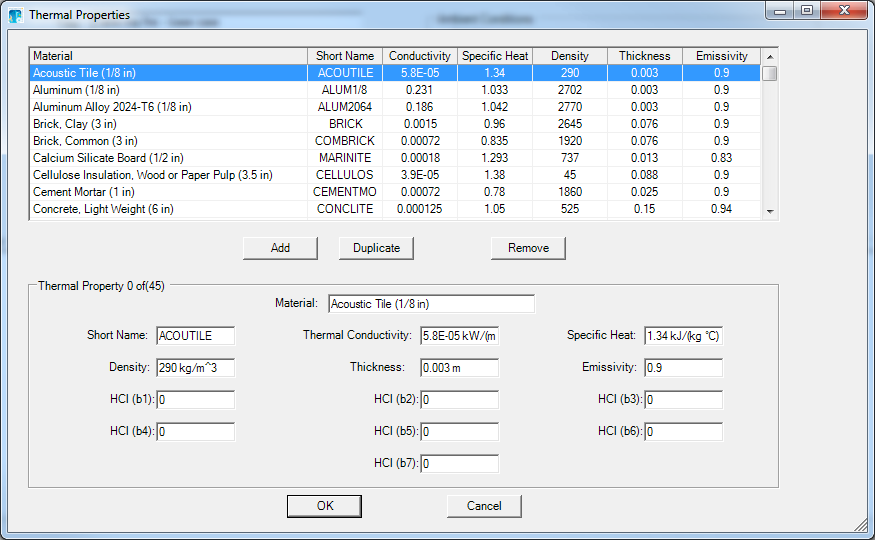
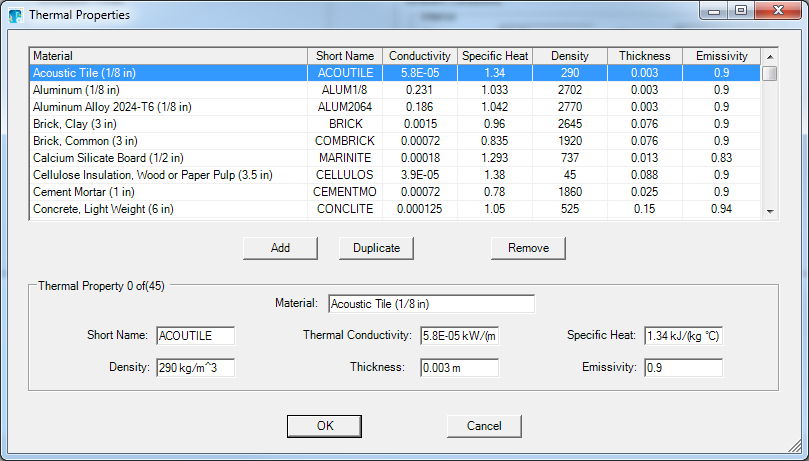
CFAST User's Guide: Updating User's Guide for version 7

diff --git a/Docs/Users_Guide/Input_File_Chapter.tex b/Docs/Users_Guide/Input_File_Chapter.tex
@@ -20,7 +20,7 @@ MATL,GLASSFB3,0.036,795,105,0.013,0.9,"Glass Fiber, Organic Bonded (1/2 in)"
 !!
 !!Compartment keywords
 !!
-COMPA,Compartment 1,9.1,5,4.6,0,0,0,GLASSFB3,CONCRETE,CONCRETE,50,50,50
+COMPA,Comp 1,9.1,5,4.6,0,0,0,GLASSFB3,CONCRETE,CONCRETE,50,50,50
 !!
 !!Vent keywords
 !!
@@ -110,17 +110,17 @@ The Simulation Environment page defines the initial conditions and simulation ti
 
 \subsection{Naming the Calculation, the Title Input}
 
-The first thing to do when setting up an input file is to give the simulation a title.  The first line in the CFAST input data file must be the CFAST version identification along with an optional short title for the simulation.  This is a required input.  The title command is the line that CFAST keys on to determine whether it has a correct data file.
+The first thing to do when setting up an input file is to give the simulation a title.  The first line in the CFAST input data file must be the CFAST version identification along with an optional short title for the simulation.  This is a required input.  The VERSN command is the line that CFAST keys on to determine whether it has a correct data file.
 
 \begin{lstlisting}
-VERSN,6,CFAST Simulation
+VERSN,7,CFAST Simulation
 \end{lstlisting}
 
 \clearpage
 
 \begin{figure}[h!]
 \begin{center}
-\includegraphics[width=3.458in]{FIGURES/Input_File/Title}
+\includegraphics[width=5.3in]{FIGURES/Input_File/Title}
 \end{center}
 \end{figure}
 
@@ -140,28 +140,24 @@ TIMES,900,50,10,10
 \end{center}
 \end{figure}
 
-\begin{itemize}
-\item \textbf{Simulation Time} (default units: s, default value, 900 s): The length of time over which the simulation takes place.  This is a required input which should be entered even if all other fields are not included. The maximum value for this input is 86400 s (1 day).
 
-\item \textbf{Text Output Interval} (default units: s, default value, 50 s): The print interval is the time interval between each printing of the output values.  If omitted or less than or equal to zero, no output values will occur.
+\textbf{Simulation Time} (default units: s, default value, 900 s): The length of time over which the simulation takes place.  This is a required input which should be entered even if all other fields are not included. The maximum value for this input is 86400 s (1 day).
 
-\item \textbf{Spreadsheet Output Interval} (default units: s, default value, 10 s): CFAST can output a subset of the results of the model simulation in a comma-delimited alphanumeric format which can be read by most spreadsheet software. This is designed to be imported into a spreadsheet for further analysis or graphing of the results of the simulation.  This input defines the time interval between outputs of the model results in a spreadsheet-compatible format. A value greater than zero must be used if the spreadsheet file is to be used.
+\textbf{Text Output Interval} (default units: s, default value, 50 s): The print interval is the time interval between each printing of the output values.  If omitted or less than or equal to zero, no output values will occur.
 
-\item \textbf{Smokeview Output Interval} (default units: s, default value: 10 s): CFAST can output a subset of the results in a format compatible with the visualization program smokeview. This input defines the time interval between outputs of the model results in a smokeview-compatible format.  A value greater than zero must be used if the spreadsheet output is desired.
-\end{itemize}
+\textbf{Spreadsheet Output Interval} (default units: s, default value, 10 s): CFAST can output a subset of the results of the model simulation in a comma-delimited alphanumeric format which can be read by most spreadsheet software. This is designed to be imported into a spreadsheet for further analysis or graphing of the results of the simulation.  This input defines the time interval between outputs of the model results in a spreadsheet-compatible format. A value greater than zero must be used if the spreadsheet file is to be used.
 
-In addition to the input data file created specifically for a CFAST simulation, there are a number files that CFAST uses to define default values and other input information, and to output the results of the simulation for later analysis.  They include 1) a thermal properties file, 2) files of predefined fire objects, and 4) a spreadsheet-compatible output file.
-
-The thermal properties file contains material properties for compartment surfaces, target objects that may be placed in compartments in the simulation to monitor surface temperature and heat flux to the objects, and fire objects, in addition to the main fire in the simulation that may ignite based on their surface temperature or incident flux onto the surface of the object. The predefined fire objects files contain definitions for a number of reference fires from the literature or developed by the user that may be included in a simulation. The thermal properties and fire objects files may be modified by the user.  Details of the files are included in the appendices.  There are default files included in the CFAST distribution.
+\textbf{Smokeview Output Interval} (default units: s, default value: 10 s): CFAST can output a subset of the results in a format compatible with the visualization program smokeview. This input defines the time interval between outputs of the model results in a smokeview-compatible format.  A value greater than zero must be used if the spreadsheet output is desired.
+    
+\textbf{Maximum Time Step} (default units: s, default value: 2 s): CFAST will automatically adjust the time interval for the solution of the differential equation set up or down so that the simulation is as efficient as possible within the pre-defined error tolerances. This input places a maximum value for the equation solver and can normally be left at the default value. In cases (which are hopefully rare) where the model fails to converge on a solution, this value can be reduced which often will allow the simulation to successfully complete.
 
 \subsection{Ambient Conditions}
 
-Ambient conditions define the environment at which the scenario begins. This allows the user to specify the temperature, pressure, and station elevation of the ambient atmosphere, as well as the absolute wind pressure to which the structure is subjected.  Pressure interior to a structure is calculated simply as a lapse rate (related to the height above sea level) based on the NOAA/NASA tables \cite{GPO:Atmosphere}.  This modification is applied to the vents which connect to the exterior ambient.  The calculated pressure change is modified by the wind coefficient for each vent.  This coefficient, which can vary from -1.0 to +1.0, nominally from -0.8 to +0.8, determines whether the vent is facing away from or into the wind.  The pressure change is multiplied by the vent wind coefficient and added to the external ambient for each vent which is connected to the outside. There is an ambient for the interior and for the exterior of the structure.  Three keywords define the ambient conditions: TAMB for the interior of the structure, EAMB for the exterior of the structure is EAMB, and WIND for the wind information.
+Ambient conditions define the environment at which the scenario begins. This allows the user to specify the temperature, pressure, and a reference elevation, as well as an initial relative humidity.  Initial pressures in a structure are calculated simply as a lapse rate (related to the height above sea level) based on the NOAA/NASA tables \cite{GPO:Atmosphere}. The relative humidity is used to calculate the initial water content in the air both inside and outside of the structure.  There is an input for the interior and for the exterior of the structure.  Two keywords define the ambient conditions: TAMB for the interior of the structure and EAMB for the exterior of the structure is EAMB.
 
 \begin{lstlisting}
 EAMB,293.15,101300,0
 TAMB,293.15,101300,0,50
-WIND,0,10,0.16
 \end{lstlisting}
 
 \begin{figure}[h!]
@@ -170,39 +166,30 @@ WIND,0,10,0.16
 \end{center}
 \end{figure}
 
-\textbf{Ambient Temperature} (default units: \degc~C, default value: 20 \degc~C): Initial ambient temperature inside (for TAMB) or outside (For EAMB) the structure at the station elevation.
+\textbf{Temperature} (default units: \degc~C, default value: 20 \degc~C): Initial ambient temperature inside (for TAMB) or outside (For EAMB) the structure at the station elevation.
 
-\textbf{Ambient Pressure} (default units: Pa, default value: 101300 Pa): Initial values for ambient atmospheric pressure inside (for TAMB) and outside (for EAMB) the structure at the station elevation. Default value is standard atmospheric pressure at sea level (0 m elevation) of 101.3 kPa. Input units are in Pa. These values define standard conditions as defined in Standard Atmosphere as noted in the Handbook of Chemistry and Physics  . There is a set of numerical approximations in the CFAST code which duplicate the pressure/temperature/altitude relationships in the handbook.
+\textbf{Pressure} (default units: Pa, default value: 101300 Pa): Initial values for ambient atmospheric pressure inside (for TAMB) and outside (for EAMB) the structure at the station elevation. Default value is standard atmospheric pressure at sea level (0 m elevation) of 101.3 kPa. Input units are in Pa.
 
 \textbf{Elevation} (defaults units: m, default value: 0 m): The height where the ambient pressure and temperature were specified.  This is the reference datum for calculating the density of the atmosphere as well as the temperature and pressure inside and outside of the structure as a function of height.
 
-\textbf{Relative Humidity} (default units \% RH, default value: 50 \%): The initial relative humidity in the system, only specified for the interior with the TAMB command.  This is converted to kilograms of water per cubic meter.
+\textbf{Humidity} (default units \% RH, default value: 50 \%): The initial relative humidity in the system, only specified for the interior with the TAMB command.  This is converted to kilograms of water per cubic meter as an initial condition for both the interior and exterior of the structure.
 
-The wind speed, scale height, and power law are used to calculate the wind coefficient for each vent connected to the outside.  The wind velocity is specified at some reference height.  The power law then provides a lapse rate for the wind speed.  An assumption is that the wind speed is zero at the surface.  The formula used to calculate the wind speed at the height of any vent is show below.  The wind is applied to each external opening as a change in pressure outside of the vent.
-
-\textbf{Wind Speed} (default units: m/s, default value 0 m/s): Wind speed at the reference elevation.
-
-\textbf{Scale Height} (default units: m, default value: 0 m)): Reference height at which the reference wind speed is measured.
-
-\textbf{Power Law Coefficient} (default units: dimensionless, default value 0.16): The power law used to calculate the wind speed as a function of height. Default value is 0.16. Using the notation that $V_W$, is the wind speed at the reference height $H_W$, and $P_W$ is the power law, the exterior pressure is modified by  $\delta P = {C_W}{V^2}$ and $V = {V_W}{\left( {\frac{{{H_i}}}{{{H_W}}}} \right)^{{P_W}}}$ where $H_i$ is the position of the vent \cite{CFAST_Tech_Guide_6}.
 
 \begin{itemize}
-\item In order to see the effect of wind, the corresponding parameter for the ventilation keyword must be specified. The default for the wind vector is 0, which turns off wind effects. Please see the HVENT command, below.
-
 \item The choice for station elevation, temperature and pressure must be consistent.  Outside of that limitation, the choice is arbitrary.  It is often convenient to choose the base of a structure to be at zero height and then reference the height of the structure with respect to that height.  The temperature and pressure must then be measured at that position.  Another possible choice would be the pressure and temperature at sea level, with the structure elevations then given with respect to mean sea level.  This is also acceptable, but somewhat more tedious in specifying the construction of a structure.  Either of these choices works though, so long as they are consistent. Usually, the station elevation is set to zero and the pressure to ambient. The effect of changing these values is small for small changes. There will be an effect for places at altitude such as Denver, Colorado, but even there the effect is not pronounced. Note that the equations implemented in the model are not designed to handle negative elevations and altitudes. It is suggested that the defaults be used.
 
-\item These three parameters are optional. If they are not included in the input file, default values are used.
+\item These parameters are optional. If they are not included in the input file, default values are used.
 \end{itemize}
 
 \section{Compartment Geometry}
-
-The Compartment Geometry page defines the size, position, materials of construction, and flow characteristics for the compartments in the simulation. Initially, only the simulation environment page and the �Add� button on the compartment geometry page is enabled; all other pages are not available to the user for detailed inputs until a compartment has been added to the simulation.
 
 \begin{figure}[h!]
 \begin{center}
 \includegraphics[width=6.5in]{FIGURES/Input_File/Compartment_Geometry_Tab}
 \end{center}
 \end{figure}
+
+The Compartment Geometry page defines the size, position, materials of construction, and flow characteristics for the compartments in the simulation. Initially, only the simulation environment page and the 'Add' button on the compartment geometry page is enabled; all other pages are not available to the user for detailed inputs until a compartment has been added to the simulation.
 
 Most of the tabbed pages in the program are of similar design, with a summary of the defined items in table form at the top of the page, a series of buttons to add, remove, or modify the item highlighted in the summary table, and a number of individual inputs below which details all of the inputs for the item selected in the summary table. The buttons included on the compartment geometry page are as follows: \\
 
@@ -240,12 +227,12 @@ At least one compartment must be specified in the input file.  There are no defa
   \includegraphics[width=2.0in]{FIGURES/Input_File/CFAST_Coordinates}
 \end{wrapfigure}
 
-Compartments in CFAST are most typically defined by a width, depth, and height.  If desired, compartments can be prescribed by the cross-sectional area of the compartment as a function of height from floor to ceiling for other shapes. The absolute position of the compartment with respect to a single structure reference point can be defined to ease visualization or to allow exact placement of vents and surfaces relative to other compartments in a detailed calculation. This specification is important for utilizing the corridor flow algorithm with the HALL command and for positioning the compartments for visualization in SMOKEVIEW.
+Compartments in CFAST are most typically defined by a width, depth, and height.  If desired, compartments can be prescribed by the cross-sectional area of the compartment as a function of height from floor to ceiling for other shapes. The absolute position of the compartment with respect to a single structure reference point can be defined to ease visualization or to allow exact placement of vents and surfaces relative to other compartments in a detailed calculation. This specification is important for positioning the compartments for visualization in Smokeview.
 
-The relevant CFAST keywords are COMPA to define the compartment size and materials, HALL or ONEZ to define flow characteristics in the compartment, and ROOMA / ROOMH to define a variable cross-sectional area for the compartment. The COMPA command is required for each compartment as a basic definition for the compartment, even if there are subsequent modifications by the HALL, ONEZ, ROOMA, or ROOMH keywords which follow.  Details of the CFAST keywords are included in Appendix A.
+The relevant CFAST keywords are COMPA to define the compartment size and materials, MATL to define the thermophysical properties of the compartment surfaces, HALL or ONEZ to define flow characteristics in the compartment, and ROOMA / ROOMH to define a variable cross-sectional area for the compartment. The COMPA command is required for each compartment as a basic definition for the compartment, even if there are subsequent modifications by the HALL, ONEZ, ROOMA, or ROOMH keywords which follow.  Details of the CFAST keywords are included in Appendix A.
 
 \begin{lstlisting}
-COMPA,Compartment 1,9.1,5,4.6,0,0,0,GLASSFB3,CONCRETE,CONCRETE
+COMPA,Comp 1,9.1,5,4.6,0,0,0,GLASSFB3,CONCRETE,CONCRETE,50,50,50
 \end{lstlisting}
 
 \begin{figure}[h!]
@@ -280,12 +267,20 @@ COMPA,Compartment 1,9.1,5,4.6,0,0,0,GLASSFB3,CONCRETE,CONCRETE
 
 \subsection{Thermal Properties of Bounding Surfaces}
 
-To calculate heat loss through the ceiling, walls, and floor of a compartment, the properties of the bounding surfaces must be known. This includes the thermophysical properties of the surfaces and the arrangement of adjacent compartments if calculation of inter-compartment heat transfer is to be calculated.
+To calculate heat loss through the ceiling, walls, and floor of a compartment, the properties of the bounding surfaces must be known. This includes the thermophysical properties of the surfaces and the arrangement of adjacent compartments if inter-compartment heat transfer is to be calculated.
 
-The thermophysical properties of the surfaces which define compartments are described by specifying the thermal conductivity, specific heat, emissivity, density, and thickness of the enclosing surfaces for each material and then assigning the material to the ceiling, walls, and floor of a compartment.  Currently, thermal properties for materials are read from the CFAST input file with a thermal database file of common materials included in the CFAST distribution.  The thermophysical properties are specified at one condition of temperature, humidity, etc.  In CFAST version 6, there can only a single layer per boundary (previous versions allowed up to three).
+The thermophysical properties of the surfaces which define compartments are described by specifying the thermal conductivity, specific heat, emissivity, density, and thickness of the enclosing surfaces for each material and then assigning the material to the ceiling, walls, and floor of a compartment.  Thermal properties for materials are read from the CFAST input file.  The thermophysical properties are specified at one condition of temperature, humidity, etc.  In CFAST version 6, there can only a single layer per boundary (previous versions allowed up to three).
 
 \begin{lstlisting}
-COMPA,Compartment 1,9.1,5,4.6,0,0,0,GLASSFB3,CONCRETE,CONCRETE
+!!
+!!Material Properties
+!!
+MATL,CONCRETE,1.75,1000,2200,0.15,0.94,"Concrete, Normal Weight (6 in)"
+MATL,GLASSFB3,0.036,795,105,0.013,0.9,"Glass Fiber, Organic Bonded (1/2 in)"
+!!
+!!Compartment keywords
+!!
+COMPA,Compartment 1,9.1,5,4.6,0,0,0,GLASSFB3,CONCRETE,CONCRETE,50,50,50
 \end{lstlisting}
 
 \begin{figure}[h!]
@@ -303,20 +298,35 @@ The bounding surfaces are the ceilings, walls and floors that define a compartme
 \begin{itemize}
 \item If the thermophysical properties of the enclosing surfaces are not included, CFAST will treat them as adiabatic (no heat transfer).
 
-\item If a name is used which is not in the database, the model should stop with an error message. The keyword in the data file simply gives a name (such as CONCRETE) which refers to the properties for that material in the thermal data file (see section 4.2.3 and Appendix A for details on the thermophysical database).
+\item If a name is used which is not in the input file, the model should stop with an error message.
 
-\item Since most of the heat conduction is through the ceiling, and since the conduction calculation takes a significant fraction of the computation time, it is recommended that initial calculations be made using the ceiling only.  Adding the walls generally has a small effect on the results, and the floor contribution is usually negligible.  Clearly, there are cases where the above generalization does not hold, but it may prove to be a useful screening technique. A caveat in including floor properties is that the set of equations describing heat transfer becomes difficult to solve once the thermal wave from the compartments reaches the unexposed side of a floor. The back surfaces of compartments are assumed to be exposed to ambient conditions unless specifically specified (see the section on Surface Connections) to specify heat transfer connections between compartments).
+\item The back surfaces of compartments are assumed to be exposed to ambient conditions unless specifically specified (see the section on Surface Connections) to specify heat transfer connections between compartments).
 \end{itemize}
 
 \subsection{Additional Thermal Properties}
 
-The default CFAST installation includes a set of thermal properties for common building materials taken from textbook references.  While these may be useful for a range of problems, the user can also define additional materials for use with a specific simulation.
+By default, CEdit does not include predefined thermal properties for compartment materials. Thus, the user needs to define materials for use with a specific simulation.  These may be from other simulations or input directly from reference sources or test results. The \textbf{Insert Thermal Properties} Menu item (see page \pageref{Thermal_Properties_Menu}) allows you to add thermal properties from an existing data file to the current simulation. 
+
+\begin{figure}[h!]
+\begin{center}
+\includegraphics[width=6.5in]{FIGURES/Input_File/Insert_Thermal_Properties}
+\end{center}
+\end{figure}
+
+To add additional thermal properties to a simulation or to edit existing ones, the \textbf{Edit Thermal Properties} menu item (see page \pageref{Thermal_Properties_Menu}) allows you to edit any of the existing thermal properties. \\~ \\
 
 \begin{figure}[h!]
 \begin{center}
 \includegraphics[width=6.5in]{FIGURES/Input_File/Edit_Thermal_Properties}
 \end{center}
 \end{figure}
+
+\begin{wrapfigure}{l}{0pt}
+  \includegraphics[width=0.781in]{FIGURES/Input_File/Select_All_Button} 
+  \includegraphics[width=0.781in]{FIGURES/Input_File/Deselect_All_Button}
+\end{wrapfigure}
+
+Use the Select All and Deselect All buttons to make or clear all materials for inclusion in the current simulation.  Individual materials can be included or excluded by checking or clearing the check box for an individual material in the list of materials. \\~ \\
 
 \begin{wrapfigure}{l}{0pt}
   \includegraphics[width=0.781in]{FIGURES/Input_File/Add_Button}
@@ -338,7 +348,7 @@ Use the Remove button to delete the selected thermal property from the list of f
 
 \textbf{Material}: A descriptive name for the material.
 
-\textbf{Short Name}: A one-word identifier for the material.  This identifiershould not contain any spaces and is used in other CFAST inputs to identify the particular material referenced.
+\textbf{Short Name}: A one-word (no more than 8 characters) \textbf{unique} identifier for the material.  This identifier should not contain any spaces and is used in other CFAST inputs to identify the particular material referenced.
 
 \textbf{Thermal Conductivity} (default value: none, default units: kW/m \degc): Thermal conductivity for the material.
 
@@ -350,7 +360,6 @@ Use the Remove button to delete the selected thermal property from the list of f
 
 \textbf{Emissivity} (default value: 0.9, default units: none): Emissivity of the material surface.  This is the fraction of radiation that is absorbed by the material.
 
-\textbf{HCl (b1) through HCl (b7)} (default value: 0, default units: none): These constants define HCl deposition on the material.  Data is only available for gypsum wallboard so these entries are typically left at a value of zero.
 
 \section{Compartment Connections}
 

diff --git a/Docs/Users_Guide/Running_CFAST_Chapter.tex b/Docs/Users_Guide/Running_CFAST_Chapter.tex
@@ -73,7 +73,7 @@ Editing Thermal Properties in Cedit
 \end{center}
 \end{figure}
 
-When CEdit is started, no thermal properties or fires are defined.  The \textbf{Insert Thermal Properties} menu item allows thermal properties used in a different simulation to be inserted into the data for the current simulation by choosing an existing CFAST input file and selecting one or more of the thermal properties to be included in the current simulation.
+When CEdit is started, no thermal properties or fires are defined \label{Thermal_Properties_Menu}.  The \textbf{Insert Thermal Properties} menu item allows thermal properties used in a different simulation to be inserted into the data for the current simulation by choosing an existing CFAST input file and selecting one or more of the thermal properties to be included in the current simulation.
 
 \begin{figure}[h!]
 \begin{center}
